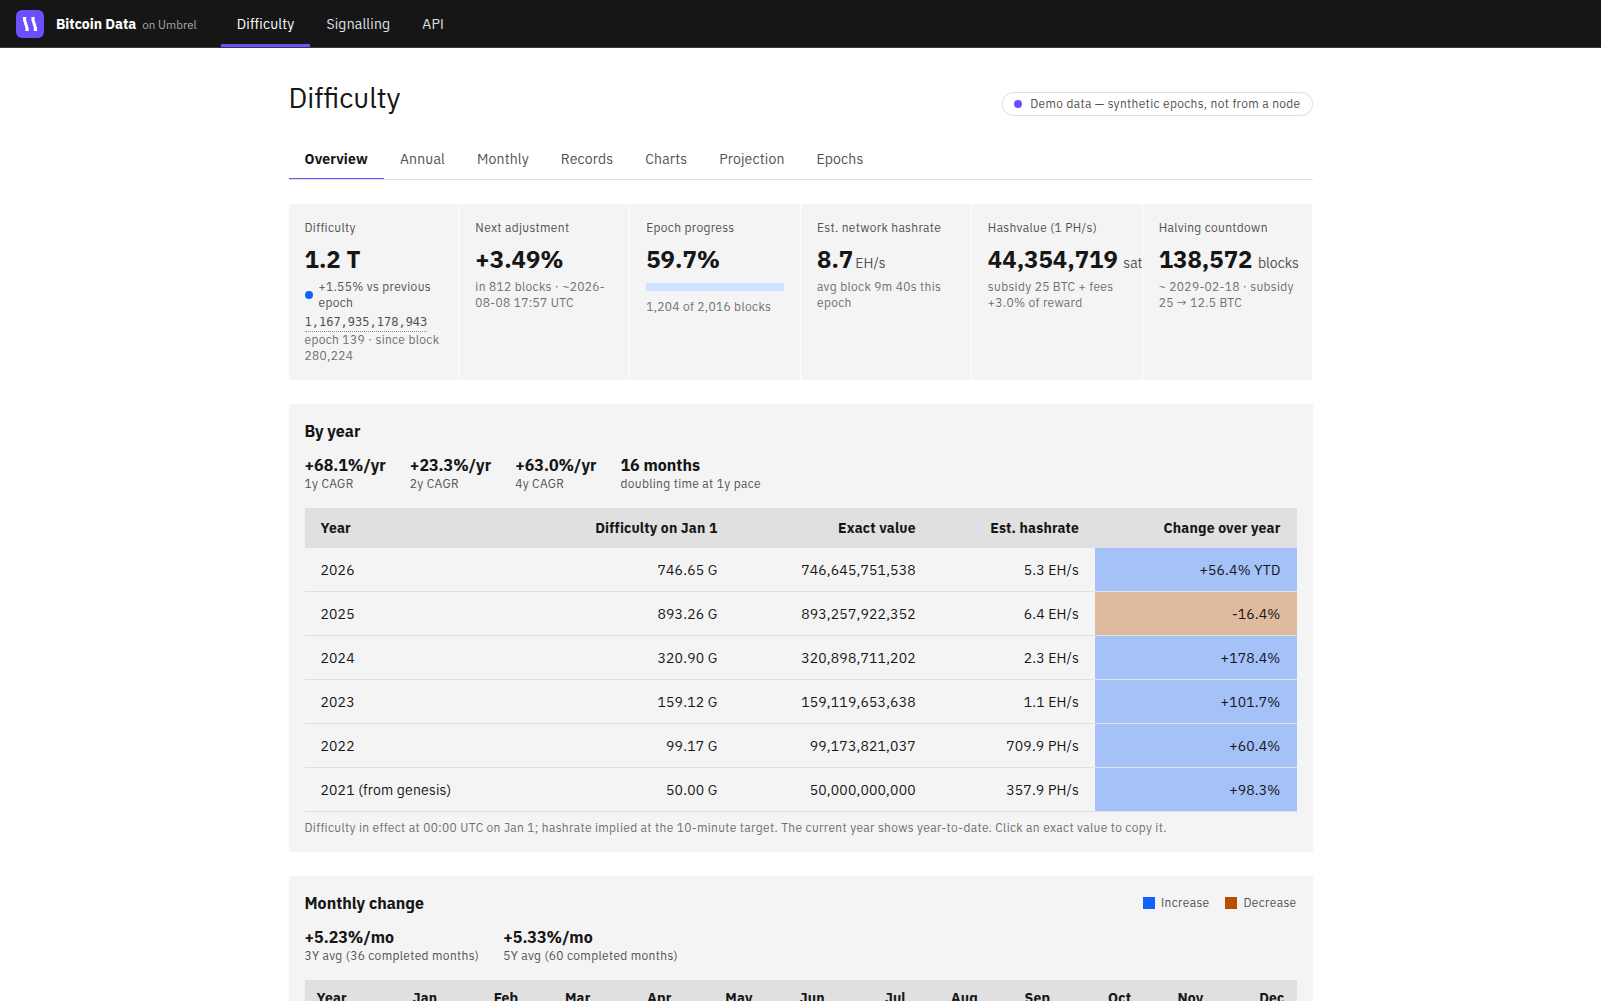
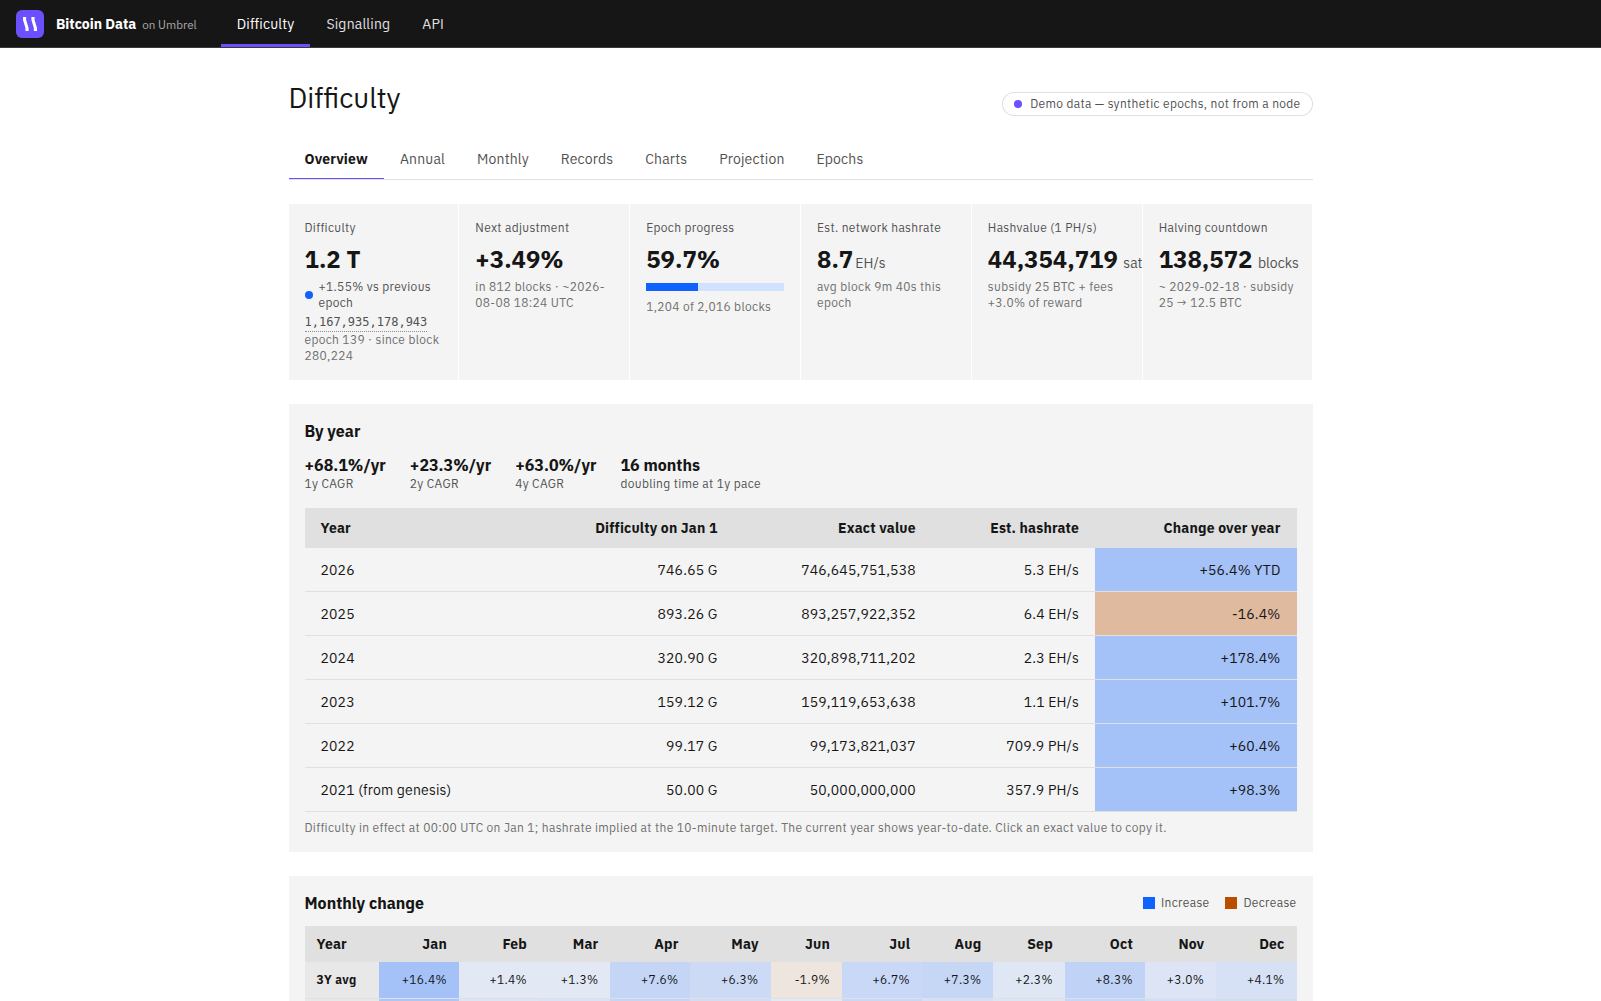
Difficulty stats: per-month seasonal averages + four top-5 run tables
Corrects the 1.5.0 interpretation:
- Monthly change: two rows at the top of the grid — 3Y and 5Y average PER
  MONTH (Jan = mean of the last 3/5 completed Januaries), completed months
  only so the current partial month is skipped. Replaces the single overall
  average.
- Records: four separate top-5 tables — longest increases, biggest increases,
  longest decreases, deepest decreases (length vs compounded magnitude), in a
  2×2 grid so date ranges aren't clipped.
- Gallery screenshots refreshed.

Changed region(s): [[0.1874, 0.9291, 0.812, 1.0], [0.406, 0.2787, 0.4372, 0.3097]]

diff --git a/image-braiins-bitcoin-data/webui.py b/image-braiins-bitcoin-data/webui.py
@@ -790,11 +790,16 @@ tbody td .dirdot { display: inline-block; margin-right: 6px; }
 
 /* records: two ranked lists side by side */
 .recgrid { display: grid; grid-template-columns: repeat(auto-fit, minmax(280px, 1fr)); gap: var(--spacing-06); }
+/* run-record tables: 2×2 so the date range column isn't clipped */
+.rungrid { display: grid; grid-template-columns: repeat(auto-fit, minmax(400px, 1fr)); gap: var(--spacing-06); }
 
 /* calendar: year rows x month columns, diverging tint behind text-token values */
 .cal td, .cal th { height: 36px; padding: 0 var(--spacing-04); }
 .cal td { font: 400 12px/1.3333 var(--font-sans); letter-spacing: .32px; }
 .cal td.empty { color: var(--text-helper); background: var(--table-row); }
+/* seasonal average rows sit above the per-year grid, set off by a divider */
+.cal tr.seasonavg td { background: var(--layer-hover); }
+.cal tr.seasonavg + tr:not(.seasonavg) td { border-top: 2px solid var(--border-strong); }
 .note { font: 400 12px/1.3333 var(--font-sans); letter-spacing: .32px; color: var(--text-helper);
   margin: var(--spacing-03) 0 0; }
 footer { margin-top: var(--spacing-07); font: 400 12px/1.3333 var(--font-sans);
@@ -874,7 +879,6 @@ __CSS__</head><body>
   <div class="card">
     <div class="cardhead"><h3>Monthly change</h3>
       <span class="key"><span><i class="pos"></i>Increase</span><span><i class="neg"></i>Decrease</span></span></div>
-    <div class="statrow" id="month-avg"></div>
     <div class="tablewrap"><table id="months" class="cal">
       <thead><tr></tr></thead><tbody></tbody>
     </table></div>
@@ -894,11 +898,21 @@ __CSS__</head><body>
       </table></div>
     </div>
     <p class="note" id="streaks"></p>
-    <div class="tablewrap" style="margin-top: var(--spacing-05)"><table id="runs">
-      <thead><tr><th>Consecutive run</th><th>Epochs</th><th>Total change</th><th>Period</th></tr></thead>
-      <tbody></tbody>
-    </table></div>
-    <p class="note">Runs of consecutive up- or down-adjustments. Total change compounds every step in the run, so the longest run and the biggest/deepest run can be different.</p>
+    <div class="rungrid" style="margin-top: var(--spacing-05)">
+      <div class="tablewrap"><table id="run-linc">
+        <thead><tr><th>Longest increases</th><th>Total change</th><th>Period</th></tr></thead><tbody></tbody>
+      </table></div>
+      <div class="tablewrap"><table id="run-binc">
+        <thead><tr><th>Biggest increases</th><th>Epochs</th><th>Period</th></tr></thead><tbody></tbody>
+      </table></div>
+      <div class="tablewrap"><table id="run-ldec">
+        <thead><tr><th>Longest decreases</th><th>Total change</th><th>Period</th></tr></thead><tbody></tbody>
+      </table></div>
+      <div class="tablewrap"><table id="run-ddec">
+        <thead><tr><th>Deepest decreases</th><th>Epochs</th><th>Period</th></tr></thead><tbody></tbody>
+      </table></div>
+    </div>
+    <p class="note">Runs of consecutive up- or down-adjustments (top 5 each). Total change compounds every step, so the longest run and the biggest/deepest run can differ.</p>
     <div class="tablewrap" style="margin-top: var(--spacing-05)"><table id="drawdowns">
       <thead><tr><th>Longest without a new ATH</th><th>From</th><th>Until</th><th>Max drawdown</th></tr></thead>
       <tbody></tbody>
@@ -1182,28 +1196,40 @@ function renderRecords() {
     run.to = r.start_time;
   }
   const ups = runs.filter(r => r.sign > 0), downs = runs.filter(r => r.sign < 0);
-  const pick = (arr, keyfn) => arr.length ? arr.reduce((a, b) => keyfn(b) > keyfn(a) ? b : a) : null;
-  const recs = [
-    ["Longest increase", pick(ups, r => r.len)],
-    ["Biggest increase", pick(ups, r => r.cum)],
-    ["Longest decrease", pick(downs, r => r.len)],
-    ["Deepest decrease", pick(downs, r => -r.cum)],   // most negative cumulative
-  ];
-  const rtb = document.querySelector("#runs tbody");
-  rtb.textContent = "";
-  for (const [label, r] of recs) {
-    if (!r) continue;
-    const tr = document.createElement("tr");
-    const c0 = document.createElement("td"); c0.style.textAlign = "left"; c0.textContent = label;
-    const c1 = document.createElement("td"); c1.textContent = r.len + " epochs";
-    const c2 = document.createElement("td");
-    const dot = document.createElement("span");
-    dot.className = "dirdot " + (r.sign > 0 ? "up" : "down"); c2.appendChild(dot);
-    c2.appendChild(document.createTextNode(fmtPct(r.cum - 1, 1)));
-    const c3 = document.createElement("td"); c3.textContent = fmtDate(r.from) + " → " + fmtDate(r.to);
-    tr.append(c0, c1, c2, c3);
-    rtb.appendChild(tr);
-  }
+  // four top-5 tables. `primary` picks what the first column shows: the run
+  // length (for longest) or the compounded % (for biggest/deepest).
+  const fillRuns = (id, list, primary) => {
+    const tb = document.querySelector(id + " tbody");
+    tb.textContent = "";
+    for (const r of list) {
+      const tr = document.createElement("tr");
+      const c0 = document.createElement("td"); c0.style.textAlign = "left";
+      if (primary === "len") {
+        c0.textContent = r.len + " epochs";
+      } else {
+        const dot = document.createElement("span");
+        dot.className = "dirdot " + (r.sign > 0 ? "up" : "down"); c0.appendChild(dot);
+        c0.appendChild(document.createTextNode(fmtPct(r.cum - 1, 1)));
+      }
+      const c1 = document.createElement("td");
+      if (primary === "len") {
+        const dot = document.createElement("span");
+        dot.className = "dirdot " + (r.sign > 0 ? "up" : "down"); c1.appendChild(dot);
+        c1.appendChild(document.createTextNode(fmtPct(r.cum - 1, 1)));
+      } else {
+        c1.textContent = r.len;
+      }
+      const c2 = document.createElement("td");
+      c2.textContent = fmtDate(r.from) + " → " + fmtDate(r.to);
+      tr.append(c0, c1, c2);
+      tb.appendChild(tr);
+    }
+  };
+  const byLen = (a, b) => b.len - a.len, byCum = (a, b) => b.cum - a.cum;
+  fillRuns("#run-linc", ups.slice().sort(byLen).slice(0, 5), "len");
+  fillRuns("#run-binc", ups.slice().sort(byCum).slice(0, 5), "cum");
+  fillRuns("#run-ldec", downs.slice().sort(byLen).slice(0, 5), "len");
+  fillRuns("#run-ddec", downs.slice().sort((a, b) => a.cum - b.cum).slice(0, 5), "cum");
   // top-5 stretches without a new all-time-high difficulty
   let ath = -Infinity, from = null, low = Infinity;
   const gaps = [];
@@ -1355,6 +1381,34 @@ function renderCalendar() {
   for (const m of MONTHS) { const th = document.createElement("th"); th.textContent = m; mhead.appendChild(th); }
   const mbody = document.querySelector("#months tbody");
   mbody.textContent = "";
+
+  // seasonal averages: for each month, the mean of that month's change across
+  // the most recent 3 / 5 COMPLETED years (so Jan = Jan'26,'25,'24; and an
+  // incomplete current month like Aug'26 is skipped, falling back to Aug'25…).
+  const season = Array.from({ length: 12 }, () => []);   // season[m] = [change] year-desc
+  for (let y = y1; y >= y0; y--) {
+    for (let m = 0; m < 12; m++) {
+      const t0 = Date.UTC(y, m, 1) / 1000, t1 = Date.UTC(y, m + 1, 1) / 1000;
+      if (t1 > now || t0 < first) continue;
+      season[m].push(valAt(t1) / valAt(t0) - 1);
+    }
+  }
+  const avgRow = (label, n) => {
+    const tr = document.createElement("tr"); tr.className = "seasonavg";
+    const c0 = document.createElement("td"); c0.textContent = label;
+    c0.style.textAlign = "left"; c0.style.fontWeight = "700"; tr.appendChild(c0);
+    for (let m = 0; m < 12; m++) {
+      const vals = season[m].slice(0, n);
+      const td = document.createElement("td");
+      if (!vals.length) { td.className = "empty"; td.textContent = ""; }
+      else changeCell(td, vals.reduce((a, b) => a + b, 0) / vals.length, "");
+      tr.appendChild(td);
+    }
+    mbody.appendChild(tr);
+  };
+  avgRow("3Y avg", 3);
+  avgRow("5Y avg", 5);
+
   for (let y = y1; y >= y0; y--) {
     const tr = document.createElement("tr");
     const td0 = document.createElement("td"); td0.textContent = String(y);
@@ -1371,29 +1425,6 @@ function renderCalendar() {
       tr.appendChild(td);
     }
     mbody.appendChild(tr);
-  }
-
-  // 3Y / 5Y average monthly change — COMPLETED months only (excludes the
-  // current partial month, and any month starting before our data begins)
-  const monthly = [];
-  for (let y = y0; y <= y1; y++) {
-    for (let m = 0; m < 12; m++) {
-      const t0 = Date.UTC(y, m, 1) / 1000, t1 = Date.UTC(y, m + 1, 1) / 1000;
-      if (t1 > now || t0 < first) continue;
-      monthly.push(valAt(t1) / valAt(t0) - 1);
-    }
-  }
-  const avgBox = document.getElementById("month-avg");
-  avgBox.textContent = "";
-  const avgOf = n => { const a = monthly.slice(-n); return a.length ? a.reduce((x, v) => x + v, 0) / a.length : null; };
-  for (const [n, lbl] of [[36, "3Y"], [60, "5Y"]]) {
-    const a = avgOf(n);
-    if (a == null) continue;
-    const div = document.createElement("div");
-    const b = document.createElement("b"); b.textContent = fmtPct(a, 2) + "/mo";
-    div.appendChild(b);
-    div.appendChild(document.createTextNode(lbl + " avg (" + Math.min(n, monthly.length) + " completed months)"));
-    avgBox.appendChild(div);
   }
 }
 
